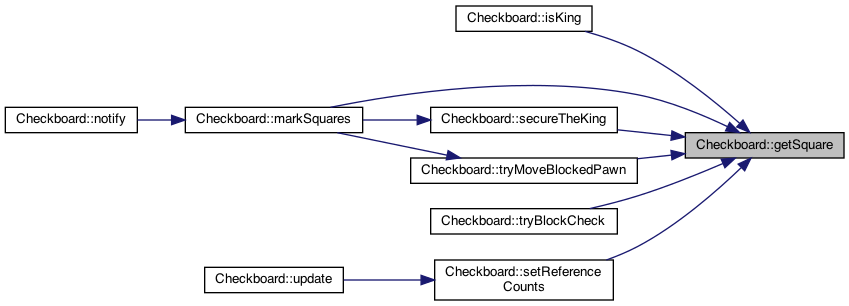
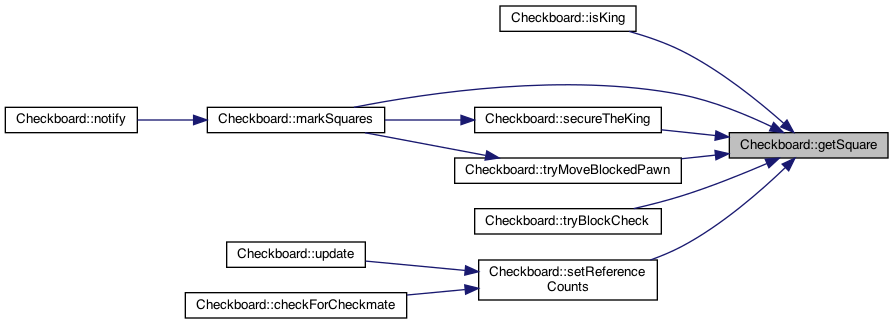
Deploying to gh-pages from @ iliaskap12/chess@b4a569ea7f6a460bec9a1721f4a7e3fdd018c890 🚀

Changed region(s): [[0.0, 0.0, 1.0, 1.0]]

diff --git a/d7/d22/classCheckboard.html b/d7/d22/classCheckboard.html
@@ -430,63 +430,76 @@ Here is the call graph for this function:</div>
 <div class="line"><span class="lineno">  432</span>  std::shared_ptr&lt;Pawn&gt; king{<span class="keyword">nullptr</span>};</div>
 <div class="line"><span class="lineno">  433</span>  <span class="keywordtype">bool</span> shouldCheckmate{<span class="keyword">true</span>};</div>
 <div class="line"><span class="lineno">  434</span> </div>
-<div class="line"><span class="lineno">  435</span>  <span class="keyword">const</span> <span class="keywordtype">int</span> blackRefCount{threat-&gt;getSquare()-&gt;getDangerReferenceCount(<a class="code hl_enumvalue" href="../../d3/d03/PawnColor_8h.html#aeee24e28f5cb186a9b7f3becafafa366a08d0012388564e95c3b4a7407cf04965">PawnColor::BLACK</a>)};</div>
-<div class="line"><span class="lineno">  436</span>  <span class="keyword">const</span> <span class="keywordtype">int</span> whiteRefCount{threat-&gt;getSquare()-&gt;getDangerReferenceCount(<a class="code hl_enumvalue" href="../../d3/d03/PawnColor_8h.html#aeee24e28f5cb186a9b7f3becafafa366ab5bf627e448384cf3a4c35121ca6008d">PawnColor::WHITE</a>)};</div>
-<div class="line"><span class="lineno">  437</span> </div>
-<div class="line"><span class="lineno">  438</span>  <span class="keywordflow">if</span> (threat-&gt;getColor() == <a class="code hl_enumvalue" href="../../d3/d03/PawnColor_8h.html#aeee24e28f5cb186a9b7f3becafafa366ab5bf627e448384cf3a4c35121ca6008d">PawnColor::WHITE</a>) {</div>
-<div class="line"><span class="lineno">  439</span>    <span class="keywordflow">if</span> (blackRefCount &gt; whiteRefCount) {</div>
-<div class="line"><span class="lineno">  440</span>      shouldCheckmate = {<span class="keyword">false</span>};</div>
-<div class="line"><span class="lineno">  441</span>    }</div>
-<div class="line"><span class="lineno">  442</span>    king = {this-&gt;<a class="code hl_variable" href="../../d7/d22/classCheckboard.html#adbe1032779d2ce829245d1cb8d13d208">blackKing</a>};</div>
-<div class="line"><span class="lineno">  443</span>  } <span class="keywordflow">else</span> {</div>
-<div class="line"><span class="lineno">  444</span>    <span class="keywordflow">if</span> (whiteRefCount &gt; blackRefCount) {</div>
-<div class="line"><span class="lineno">  445</span>      shouldCheckmate = {<span class="keyword">false</span>};</div>
-<div class="line"><span class="lineno">  446</span>    }</div>
-<div class="line"><span class="lineno">  447</span>    king = {this-&gt;<a class="code hl_variable" href="../../d7/d22/classCheckboard.html#ab603fd039fb1befd77313938f94f1945">whiteKing</a>};</div>
-<div class="line"><span class="lineno">  448</span>  }</div>
-<div class="line"><span class="lineno">  449</span> </div>
-<div class="line"><span class="lineno">  450</span>  <span class="keywordflow">if</span> (!std::static_pointer_cast&lt;King&gt;(king)-&gt;isChecked()) {</div>
-<div class="line"><span class="lineno">  451</span>    shouldCheckmate = {<span class="keyword">false</span>};</div>
-<div class="line"><span class="lineno">  452</span>  }</div>
-<div class="line"><span class="lineno">  453</span> </div>
-<div class="line"><span class="lineno">  454</span>  <span class="keywordflow">if</span> (<span class="keyword">const</span> <span class="keyword">auto</span> advanceableSquares{king-&gt;getAdvanceableSquares()}; !advanceableSquares.empty()) {</div>
-<div class="line"><span class="lineno">  455</span>    shouldCheckmate = {<span class="keyword">false</span>};</div>
-<div class="line"><span class="lineno">  456</span>  }</div>
-<div class="line"><span class="lineno">  457</span> </div>
-<div class="line"><span class="lineno">  458</span>  <span class="keywordflow">if</span> (!shouldCheckmate) {</div>
-<div class="line"><span class="lineno">  459</span>    game-&gt;playCheckSound();</div>
-<div class="line"><span class="lineno">  460</span>    <span class="keywordflow">return</span>;</div>
-<div class="line"><span class="lineno">  461</span>  }</div>
-<div class="line"><span class="lineno">  462</span> </div>
-<div class="line"><span class="lineno">  463</span>  <span class="keywordflow">for</span> (<span class="keyword">const</span> <span class="keyword">auto</span> &amp;row: *this-&gt;<a class="code hl_variable" href="../../d7/d22/classCheckboard.html#a3e9dd8c7716a612abe7b4116707d8497">squares</a>) {</div>
-<div class="line"><span class="lineno">  464</span>    <span class="keywordflow">for</span> (<span class="keyword">auto</span> &amp;square: row) {</div>
-<div class="line"><span class="lineno">  465</span>      <span class="keywordflow">if</span> (!square-&gt;hasPawn() || square-&gt;getPawn()-&gt;getColor() != king-&gt;getColor()) {</div>
-<div class="line"><span class="lineno">  466</span>        <span class="keywordflow">continue</span>;</div>
-<div class="line"><span class="lineno">  467</span>      }</div>
-<div class="line"><span class="lineno">  468</span>      <span class="keyword">auto</span> availableSquares{std::vector&lt;std::shared_ptr&lt;Square&gt;&gt;()};</div>
-<div class="line"><span class="lineno">  469</span>      <span class="keyword">auto</span> advanceableSquares{square-&gt;getPawn()-&gt;getAdvanceableSquares()};</div>
-<div class="line"><span class="lineno">  470</span>      std::ranges::for_each(advanceableSquares, [<span class="keyword">this</span>, &amp;threat, &amp;king, &amp;availableSquares](<span class="keyword">const</span> std::pair&lt;int, int&gt; &amp;pair) {</div>
-<div class="line"><span class="lineno">  471</span>        <span class="keywordflow">if</span> (*threat-&gt;getSquare() == *this-&gt;getSquare(pair)) {</div>
-<div class="line"><span class="lineno">  472</span>          availableSquares.push_back(this-&gt;getSquare(pair));</div>
-<div class="line"><span class="lineno">  473</span>        } <span class="keywordflow">else</span> {</div>
-<div class="line"><span class="lineno">  474</span>          std::ranges::for_each(this-&gt;tryBlockCheck(pair, king, threat), [&amp;availableSquares](const std::shared_ptr&lt;Square&gt; step) {</div>
-<div class="line"><span class="lineno">  475</span>            availableSquares.push_back(step);</div>
-<div class="line"><span class="lineno">  476</span>          });</div>
-<div class="line"><span class="lineno">  477</span>        }</div>
-<div class="line"><span class="lineno">  478</span>      });</div>
-<div class="line"><span class="lineno">  479</span> </div>
-<div class="line"><span class="lineno">  480</span>      <span class="keywordflow">if</span> (!availableSquares.empty()) {</div>
-<div class="line"><span class="lineno">  481</span>        game-&gt;playCheckSound();</div>
-<div class="line"><span class="lineno">  482</span>        <span class="keywordflow">return</span>;</div>
-<div class="line"><span class="lineno">  483</span>      }</div>
-<div class="line"><span class="lineno">  484</span>    }</div>
-<div class="line"><span class="lineno">  485</span>  }</div>
-<div class="line"><span class="lineno">  486</span>  this-&gt;<a class="code hl_function" href="../../d7/d22/classCheckboard.html#adf754bb50f74220b4af2fd7e4ba29311">checkmate</a>(threat-&gt;getColor());</div>
-<div class="line"><span class="lineno">  487</span>}</div>
+<div class="line"><span class="lineno">  435</span>  this-&gt;<a class="code hl_function" href="../../d7/d22/classCheckboard.html#ab2cce7d4271ca13defbd495e25215224">setReferenceCounts</a>();</div>
+<div class="line"><span class="lineno">  436</span>  <span class="keyword">const</span> <span class="keywordtype">int</span> blackRefCount{threat-&gt;getSquare()-&gt;getDangerReferenceCount(<a class="code hl_enumvalue" href="../../d3/d03/PawnColor_8h.html#aeee24e28f5cb186a9b7f3becafafa366a08d0012388564e95c3b4a7407cf04965">PawnColor::BLACK</a>)};</div>
+<div class="line"><span class="lineno">  437</span>  <span class="keyword">const</span> <span class="keywordtype">int</span> whiteRefCount{threat-&gt;getSquare()-&gt;getDangerReferenceCount(<a class="code hl_enumvalue" href="../../d3/d03/PawnColor_8h.html#aeee24e28f5cb186a9b7f3becafafa366ab5bf627e448384cf3a4c35121ca6008d">PawnColor::WHITE</a>)};</div>
+<div class="line"><span class="lineno">  438</span> </div>
+<div class="line"><span class="lineno">  439</span>  <span class="keywordflow">if</span> (threat-&gt;getColor() == <a class="code hl_enumvalue" href="../../d3/d03/PawnColor_8h.html#aeee24e28f5cb186a9b7f3becafafa366ab5bf627e448384cf3a4c35121ca6008d">PawnColor::WHITE</a>) {</div>
+<div class="line"><span class="lineno">  440</span>    <span class="keywordflow">if</span> (blackRefCount &gt; whiteRefCount) {</div>
+<div class="line"><span class="lineno">  441</span>      shouldCheckmate = {<span class="keyword">false</span>};</div>
+<div class="line"><span class="lineno">  442</span>    }</div>
+<div class="line"><span class="lineno">  443</span>    king = {this-&gt;<a class="code hl_variable" href="../../d7/d22/classCheckboard.html#adbe1032779d2ce829245d1cb8d13d208">blackKing</a>};</div>
+<div class="line"><span class="lineno">  444</span>  } <span class="keywordflow">else</span> {</div>
+<div class="line"><span class="lineno">  445</span>    <span class="keywordflow">if</span> (whiteRefCount &gt; blackRefCount) {</div>
+<div class="line"><span class="lineno">  446</span>      shouldCheckmate = {<span class="keyword">false</span>};</div>
+<div class="line"><span class="lineno">  447</span>    }</div>
+<div class="line"><span class="lineno">  448</span>    king = {this-&gt;<a class="code hl_variable" href="../../d7/d22/classCheckboard.html#ab603fd039fb1befd77313938f94f1945">whiteKing</a>};</div>
+<div class="line"><span class="lineno">  449</span>  }</div>
+<div class="line"><span class="lineno">  450</span> </div>
+<div class="line"><span class="lineno">  451</span>  <span class="keywordflow">if</span> (!std::static_pointer_cast&lt;King&gt;(king)-&gt;isChecked()) {</div>
+<div class="line"><span class="lineno">  452</span>    shouldCheckmate = {<span class="keyword">false</span>};</div>
+<div class="line"><span class="lineno">  453</span>  }</div>
+<div class="line"><span class="lineno">  454</span> </div>
+<div class="line"><span class="lineno">  455</span>  <span class="keywordflow">if</span> (<span class="keyword">const</span> <span class="keyword">auto</span> advanceableSquares{king-&gt;getAdvanceableSquares()}; !advanceableSquares.empty()) {</div>
+<div class="line"><span class="lineno">  456</span>    shouldCheckmate = {<span class="keyword">false</span>};</div>
+<div class="line"><span class="lineno">  457</span>  }</div>
+<div class="line"><span class="lineno">  458</span> </div>
+<div class="line"><span class="lineno">  459</span>  <span class="keywordflow">if</span> (!shouldCheckmate) {</div>
+<div class="line"><span class="lineno">  460</span>    game-&gt;playCheckSound();</div>
+<div class="line"><span class="lineno">  461</span>    <span class="keywordflow">return</span>;</div>
+<div class="line"><span class="lineno">  462</span>  }</div>
+<div class="line"><span class="lineno">  463</span> </div>
+<div class="line"><span class="lineno">  464</span>  <span class="keywordflow">for</span> (<span class="keyword">const</span> <span class="keyword">auto</span> &amp;row: *this-&gt;<a class="code hl_variable" href="../../d7/d22/classCheckboard.html#a3e9dd8c7716a612abe7b4116707d8497">squares</a>) {</div>
+<div class="line"><span class="lineno">  465</span>    <span class="keywordflow">for</span> (<span class="keyword">auto</span> &amp;square: row) {</div>
+<div class="line"><span class="lineno">  466</span>      <span class="keywordflow">if</span> (!square-&gt;hasPawn() || square-&gt;getPawn()-&gt;getColor() != king-&gt;getColor()) {</div>
+<div class="line"><span class="lineno">  467</span>        <span class="keywordflow">continue</span>;</div>
+<div class="line"><span class="lineno">  468</span>      }</div>
+<div class="line"><span class="lineno">  469</span>      <span class="keyword">auto</span> availableSquares{std::vector&lt;std::shared_ptr&lt;Square&gt;&gt;()};</div>
+<div class="line"><span class="lineno">  470</span>      <span class="keyword">auto</span> advanceableSquares{square-&gt;getPawn()-&gt;getAdvanceableSquares()};</div>
+<div class="line"><span class="lineno">  471</span>      std::ranges::for_each(advanceableSquares, [<span class="keyword">this</span>, &amp;threat, &amp;king, &amp;availableSquares](<span class="keyword">const</span> std::pair&lt;int, int&gt; &amp;pair) {</div>
+<div class="line"><span class="lineno">  472</span>        <span class="keywordflow">if</span> (*threat-&gt;getSquare() == *this-&gt;getSquare(pair)) {</div>
+<div class="line"><span class="lineno">  473</span>          availableSquares.push_back(this-&gt;getSquare(pair));</div>
+<div class="line"><span class="lineno">  474</span>        } <span class="keywordflow">else</span> {</div>
+<div class="line"><span class="lineno">  475</span>          std::ranges::for_each(this-&gt;tryBlockCheck(pair, king, threat), [&amp;availableSquares](const std::shared_ptr&lt;Square&gt; step) {</div>
+<div class="line"><span class="lineno">  476</span>            availableSquares.push_back(step);</div>
+<div class="line"><span class="lineno">  477</span>          });</div>
+<div class="line"><span class="lineno">  478</span>        }</div>
+<div class="line"><span class="lineno">  479</span>      });</div>
+<div class="line"><span class="lineno">  480</span> </div>
+<div class="line"><span class="lineno">  481</span>      <span class="keywordflow">if</span> (!availableSquares.empty()) {</div>
+<div class="line"><span class="lineno">  482</span>        game-&gt;playCheckSound();</div>
+<div class="line"><span class="lineno">  483</span>        <span class="keywordflow">return</span>;</div>
+<div class="line"><span class="lineno">  484</span>      }</div>
+<div class="line"><span class="lineno">  485</span>    }</div>
+<div class="line"><span class="lineno">  486</span>  }</div>
+<div class="line"><span class="lineno">  487</span>  this-&gt;<a class="code hl_function" href="../../d7/d22/classCheckboard.html#adf754bb50f74220b4af2fd7e4ba29311">checkmate</a>(threat-&gt;getColor());</div>
+<div class="line"><span class="lineno">  488</span>}</div>
 <div class="ttc" id="aclassApp_html"><div class="ttname"><a href="../../dd/d64/classApp.html">App</a></div><div class="ttdef"><b>Definition:</b> App.h:14</div></div>
+<div class="ttc" id="aclassCheckboard_html_ab2cce7d4271ca13defbd495e25215224"><div class="ttname"><a href="../../d7/d22/classCheckboard.html#ab2cce7d4271ca13defbd495e25215224">Checkboard::setReferenceCounts</a></div><div class="ttdeci">void setReferenceCounts()</div><div class="ttdef"><b>Definition:</b> Checkboard.cpp:91</div></div>
 <div class="ttc" id="aclassCheckboard_html_adf754bb50f74220b4af2fd7e4ba29311"><div class="ttname"><a href="../../d7/d22/classCheckboard.html#adf754bb50f74220b4af2fd7e4ba29311">Checkboard::checkmate</a></div><div class="ttdeci">void checkmate(PawnColor winner)</div><div class="ttdef"><b>Definition:</b> Checkboard.cpp:426</div></div>
 </div><!-- fragment -->
-<p class="reference">References <a class="el" href="../../d3/d03/PawnColor_8h.html#aeee24e28f5cb186a9b7f3becafafa366a08d0012388564e95c3b4a7407cf04965">BLACK</a>, <a class="el" href="../../d7/d22/classCheckboard.html#adbe1032779d2ce829245d1cb8d13d208">blackKing</a>, <a class="el" href="../../d7/d22/classCheckboard.html#a3e9dd8c7716a612abe7b4116707d8497">squares</a>, <a class="el" href="../../d3/d03/PawnColor_8h.html#aeee24e28f5cb186a9b7f3becafafa366ab5bf627e448384cf3a4c35121ca6008d">WHITE</a>, and <a class="el" href="../../d7/d22/classCheckboard.html#ab603fd039fb1befd77313938f94f1945">whiteKing</a>.</p>
+<p class="reference">References <a class="el" href="../../d3/d03/PawnColor_8h.html#aeee24e28f5cb186a9b7f3becafafa366a08d0012388564e95c3b4a7407cf04965">BLACK</a>, <a class="el" href="../../d7/d22/classCheckboard.html#adbe1032779d2ce829245d1cb8d13d208">blackKing</a>, <a class="el" href="../../d7/d22/classCheckboard.html#ab2cce7d4271ca13defbd495e25215224">setReferenceCounts()</a>, <a class="el" href="../../d7/d22/classCheckboard.html#a3e9dd8c7716a612abe7b4116707d8497">squares</a>, <a class="el" href="../../d3/d03/PawnColor_8h.html#aeee24e28f5cb186a9b7f3becafafa366ab5bf627e448384cf3a4c35121ca6008d">WHITE</a>, and <a class="el" href="../../d7/d22/classCheckboard.html#ab603fd039fb1befd77313938f94f1945">whiteKing</a>.</p>
+<div class="dynheader">
+Here is the call graph for this function:</div>
+<div class="dyncontent">
+<div class="center"><img src="../../d7/d22/classCheckboard_aa0c092a25118247fe8bdd1842377e106_cgraph.png" border="0" usemap="#ad7/d22/classCheckboard_aa0c092a25118247fe8bdd1842377e106_cgraph" alt=""/></div>
+<map name="ad7/d22/classCheckboard_aa0c092a25118247fe8bdd1842377e106_cgraph" id="ad7/d22/classCheckboard_aa0c092a25118247fe8bdd1842377e106_cgraph">
+<area shape="rect" title=" " alt="" coords="5,35,227,61"/>
+<area shape="rect" href="../../d7/d22/classCheckboard.html#ab2cce7d4271ca13defbd495e25215224" title=" " alt="" coords="275,27,453,69"/>
+<area shape="rect" href="../../d7/d22/classCheckboard.html#a8bf65dfb381014bdb3583a04191be9fa" title=" " alt="" coords="517,5,675,32"/>
+<area shape="rect" href="../../d7/d22/classCheckboard.html#ac6518f96d2609df334c7a39dc337c79c" title=" " alt="" coords="501,57,691,98"/>
+</map>
+</div>
 
 </div>
 </div>
@@ -583,13 +596,13 @@ Here is the call graph for this function:</div>
         </tr>
       </table>
 </div><div class="memdoc">
-<div class="fragment"><div class="line"><span class="lineno">  489</span>                                                             {</div>
-<div class="line"><span class="lineno">  490</span>  <span class="keywordflow">if</span> (<a class="code hl_enumvalue" href="../../d3/d03/PawnColor_8h.html#aeee24e28f5cb186a9b7f3becafafa366ab5bf627e448384cf3a4c35121ca6008d">PawnColor::WHITE</a> == color) {</div>
-<div class="line"><span class="lineno">  491</span>    <span class="keywordflow">return</span> std::static_pointer_cast&lt;King&gt;(this-&gt;<a class="code hl_variable" href="../../d7/d22/classCheckboard.html#ab603fd039fb1befd77313938f94f1945">whiteKing</a>);</div>
-<div class="line"><span class="lineno">  492</span>  } <span class="keywordflow">else</span> {</div>
-<div class="line"><span class="lineno">  493</span>    <span class="keywordflow">return</span> std::static_pointer_cast&lt;King&gt;(this-&gt;<a class="code hl_variable" href="../../d7/d22/classCheckboard.html#adbe1032779d2ce829245d1cb8d13d208">blackKing</a>);</div>
-<div class="line"><span class="lineno">  494</span>  }</div>
-<div class="line"><span class="lineno">  495</span>}</div>
+<div class="fragment"><div class="line"><span class="lineno">  490</span>                                                             {</div>
+<div class="line"><span class="lineno">  491</span>  <span class="keywordflow">if</span> (<a class="code hl_enumvalue" href="../../d3/d03/PawnColor_8h.html#aeee24e28f5cb186a9b7f3becafafa366ab5bf627e448384cf3a4c35121ca6008d">PawnColor::WHITE</a> == color) {</div>
+<div class="line"><span class="lineno">  492</span>    <span class="keywordflow">return</span> std::static_pointer_cast&lt;King&gt;(this-&gt;<a class="code hl_variable" href="../../d7/d22/classCheckboard.html#ab603fd039fb1befd77313938f94f1945">whiteKing</a>);</div>
+<div class="line"><span class="lineno">  493</span>  } <span class="keywordflow">else</span> {</div>
+<div class="line"><span class="lineno">  494</span>    <span class="keywordflow">return</span> std::static_pointer_cast&lt;King&gt;(this-&gt;<a class="code hl_variable" href="../../d7/d22/classCheckboard.html#adbe1032779d2ce829245d1cb8d13d208">blackKing</a>);</div>
+<div class="line"><span class="lineno">  495</span>  }</div>
+<div class="line"><span class="lineno">  496</span>}</div>
 </div><!-- fragment -->
 <p class="reference">References <a class="el" href="../../d7/d22/classCheckboard.html#adbe1032779d2ce829245d1cb8d13d208">blackKing</a>, <a class="el" href="../../d3/d03/PawnColor_8h.html#aeee24e28f5cb186a9b7f3becafafa366ab5bf627e448384cf3a4c35121ca6008d">WHITE</a>, and <a class="el" href="../../d7/d22/classCheckboard.html#ab603fd039fb1befd77313938f94f1945">whiteKing</a>.</p>
 
@@ -651,15 +664,16 @@ Here is the caller graph for this function:</div>
 <div class="dyncontent">
 <div class="center"><img src="../../d7/d22/classCheckboard_a8bf65dfb381014bdb3583a04191be9fa_icgraph.png" border="0" usemap="#ad7/d22/classCheckboard_a8bf65dfb381014bdb3583a04191be9fa_icgraph" alt=""/></div>
 <map name="ad7/d22/classCheckboard_a8bf65dfb381014bdb3583a04191be9fa_icgraph" id="ad7/d22/classCheckboard_a8bf65dfb381014bdb3583a04191be9fa_icgraph">
-<area shape="rect" title=" " alt="" coords="685,132,844,159"/>
-<area shape="rect" href="../../d7/d22/classCheckboard.html#a3a1c09c2b69234c8e8e12dffd2344935" title=" " alt="" coords="456,5,592,32"/>
-<area shape="rect" href="../../d7/d22/classCheckboard.html#a470502f9a1893dbf2152a07a41e6e38c" title=" " alt="" coords="185,107,363,133"/>
-<area shape="rect" href="../../d7/d22/classCheckboard.html#a21a011e2390772722da4815b73e34287" title=" " alt="" coords="431,107,617,133"/>
-<area shape="rect" href="../../d7/d22/classCheckboard.html#ab2cce7d4271ca13defbd495e25215224" title=" " alt="" coords="435,259,613,301"/>
-<area shape="rect" href="../../d7/d22/classCheckboard.html#a935312efe3137e1eb72ceb4d9030d744" title=" " alt="" coords="431,208,617,235"/>
-<area shape="rect" href="../../d7/d22/classCheckboard.html#a826c18b2cf0cf48c3ec85cc04c7b22cd" title=" " alt="" coords="411,157,637,184"/>
+<area shape="rect" title=" " alt="" coords="729,132,888,159"/>
+<area shape="rect" href="../../d7/d22/classCheckboard.html#a3a1c09c2b69234c8e8e12dffd2344935" title=" " alt="" coords="500,5,636,32"/>
+<area shape="rect" href="../../d7/d22/classCheckboard.html#a470502f9a1893dbf2152a07a41e6e38c" title=" " alt="" coords="207,107,385,133"/>
+<area shape="rect" href="../../d7/d22/classCheckboard.html#a21a011e2390772722da4815b73e34287" title=" " alt="" coords="475,107,661,133"/>
+<area shape="rect" href="../../d7/d22/classCheckboard.html#ab2cce7d4271ca13defbd495e25215224" title=" " alt="" coords="479,259,657,301"/>
+<area shape="rect" href="../../d7/d22/classCheckboard.html#a935312efe3137e1eb72ceb4d9030d744" title=" " alt="" coords="475,208,661,235"/>
+<area shape="rect" href="../../d7/d22/classCheckboard.html#a826c18b2cf0cf48c3ec85cc04c7b22cd" title=" " alt="" coords="455,157,681,184"/>
 <area shape="rect" href="../../d7/d22/classCheckboard.html#ab188b54b544caa7ae0d36278b11d572c" title=" " alt="" coords="5,107,137,133"/>
-<area shape="rect" href="../../d7/d22/classCheckboard.html#ae3ee1a3a146ad9dabc0199212e12fe6e" title=" " alt="" coords="205,267,343,293"/>
+<area shape="rect" href="../../d7/d22/classCheckboard.html#aa0c092a25118247fe8bdd1842377e106" title=" " alt="" coords="185,292,407,319"/>
+<area shape="rect" href="../../d7/d22/classCheckboard.html#ae3ee1a3a146ad9dabc0199212e12fe6e" title=" " alt="" coords="227,241,365,268"/>
 </map>
 </div>
 
@@ -1127,9 +1141,10 @@ Here is the caller graph for this function:</div>
 <div class="dyncontent">
 <div class="center"><img src="../../d7/d22/classCheckboard_ac6518f96d2609df334c7a39dc337c79c_icgraph.png" border="0" usemap="#ad7/d22/classCheckboard_ac6518f96d2609df334c7a39dc337c79c_icgraph" alt=""/></div>
 <map name="ad7/d22/classCheckboard_ac6518f96d2609df334c7a39dc337c79c_icgraph" id="ad7/d22/classCheckboard_ac6518f96d2609df334c7a39dc337c79c_icgraph">
-<area shape="rect" title=" " alt="" coords="419,5,608,47"/>
-<area shape="rect" href="../../d7/d22/classCheckboard.html#ab2cce7d4271ca13defbd495e25215224" title=" " alt="" coords="192,5,371,47"/>
-<area shape="rect" href="../../d7/d22/classCheckboard.html#ae3ee1a3a146ad9dabc0199212e12fe6e" title=" " alt="" coords="5,13,144,39"/>
+<area shape="rect" title=" " alt="" coords="501,23,691,65"/>
+<area shape="rect" href="../../d7/d22/classCheckboard.html#ab2cce7d4271ca13defbd495e25215224" title=" " alt="" coords="275,23,453,65"/>
+<area shape="rect" href="../../d7/d22/classCheckboard.html#aa0c092a25118247fe8bdd1842377e106" title=" " alt="" coords="5,5,227,32"/>
+<area shape="rect" href="../../d7/d22/classCheckboard.html#ae3ee1a3a146ad9dabc0199212e12fe6e" title=" " alt="" coords="47,56,185,83"/>
 </map>
 </div>
 
@@ -1323,7 +1338,7 @@ Here is the caller graph for this function:</div>
 </div><!-- fragment -->
 <p class="reference">References <a class="el" href="../../d7/d22/classCheckboard.html#a8bf65dfb381014bdb3583a04191be9fa">getSquare()</a>, <a class="el" href="../../d7/d22/classCheckboard.html#ac6518f96d2609df334c7a39dc337c79c">resetReferenceCounts()</a>, <a class="el" href="../../d7/d22/classCheckboard.html#a3e9dd8c7716a612abe7b4116707d8497">squares</a>, and <a class="el" href="../../d7/d22/classCheckboard.html#a60a835cfe4c27c2a905efdaec6538c75">whiteKingThreat</a>.</p>
 
-<p class="reference">Referenced by <a class="el" href="../../d7/d22/classCheckboard.html#ae3ee1a3a146ad9dabc0199212e12fe6e">update()</a>.</p>
+<p class="reference">Referenced by <a class="el" href="../../d7/d22/classCheckboard.html#aa0c092a25118247fe8bdd1842377e106">checkForCheckmate()</a>, and <a class="el" href="../../d7/d22/classCheckboard.html#ae3ee1a3a146ad9dabc0199212e12fe6e">update()</a>.</p>
 <div class="dynheader">
 Here is the call graph for this function:</div>
 <div class="dyncontent">
@@ -1339,8 +1354,9 @@ Here is the caller graph for this function:</div>
 <div class="dyncontent">
 <div class="center"><img src="../../d7/d22/classCheckboard_ab2cce7d4271ca13defbd495e25215224_icgraph.png" border="0" usemap="#ad7/d22/classCheckboard_ab2cce7d4271ca13defbd495e25215224_icgraph" alt=""/></div>
 <map name="ad7/d22/classCheckboard_ab2cce7d4271ca13defbd495e25215224_icgraph" id="ad7/d22/classCheckboard_ab2cce7d4271ca13defbd495e25215224_icgraph">
-<area shape="rect" title=" " alt="" coords="192,5,371,47"/>
-<area shape="rect" href="../../d7/d22/classCheckboard.html#ae3ee1a3a146ad9dabc0199212e12fe6e" title=" " alt="" coords="5,13,144,39"/>
+<area shape="rect" title=" " alt="" coords="275,23,453,65"/>
+<area shape="rect" href="../../d7/d22/classCheckboard.html#aa0c092a25118247fe8bdd1842377e106" title=" " alt="" coords="5,5,227,32"/>
+<area shape="rect" href="../../d7/d22/classCheckboard.html#ae3ee1a3a146ad9dabc0199212e12fe6e" title=" " alt="" coords="47,56,185,83"/>
 </map>
 </div>
 
@@ -1576,7 +1592,6 @@ Here is the caller graph for this function:</div>
 <div class="line"><span class="lineno">  154</span>    this-&gt;<a class="code hl_variable" href="../../d7/d22/classCheckboard.html#a3c4293c0e08d4b60bd31bd9ace28690d">selectedPawn</a> = {<span class="keyword">nullptr</span>};</div>
 <div class="line"><span class="lineno">  155</span>  }</div>
 <div class="line"><span class="lineno">  156</span>}</div>
-<div class="ttc" id="aclassCheckboard_html_ab2cce7d4271ca13defbd495e25215224"><div class="ttname"><a href="../../d7/d22/classCheckboard.html#ab2cce7d4271ca13defbd495e25215224">Checkboard::setReferenceCounts</a></div><div class="ttdeci">void setReferenceCounts()</div><div class="ttdef"><b>Definition:</b> Checkboard.cpp:91</div></div>
 <div class="ttc" id="aclassCheckboard_html_ae6492b0cb2ee2dc21051c32803033ee7"><div class="ttname"><a href="../../d7/d22/classCheckboard.html#ae6492b0cb2ee2dc21051c32803033ee7">Checkboard::setBlockedPawns</a></div><div class="ttdeci">void setBlockedPawns() const</div><div class="ttdef"><b>Definition:</b> Checkboard.cpp:118</div></div>
 </div><!-- fragment -->
 <p class="reference">References <a class="el" href="../../d7/d22/classCheckboard.html#a2b1732cb70b375f67c42f5a2d7792890">markedPawn</a>, <a class="el" href="../../d7/d22/classCheckboard.html#a76747f20b4d0aa7b17424ee7b45d7d18">markedSquares</a>, <a class="el" href="../../d7/d22/classCheckboard.html#a4962b122e4fbb403397f4ceb0feed855">movingSquare_</a>, <a class="el" href="../../d7/d22/classCheckboard.html#a3c4293c0e08d4b60bd31bd9ace28690d">selectedPawn</a>, <a class="el" href="../../d7/d22/classCheckboard.html#ae6492b0cb2ee2dc21051c32803033ee7">setBlockedPawns()</a>, <a class="el" href="../../d7/d22/classCheckboard.html#ab2cce7d4271ca13defbd495e25215224">setReferenceCounts()</a>, and <a class="el" href="../../d7/d22/classCheckboard.html#a3e9dd8c7716a612abe7b4116707d8497">squares</a>.</p>

diff --git a/da/d31/Checkboard_8h_source.html b/da/d31/Checkboard_8h_source.html
@@ -182,7 +182,7 @@ $(function() {
 <div class="ttc" id="aclassCheckboard_html_ab2cce7d4271ca13defbd495e25215224"><div class="ttname"><a href="../../d7/d22/classCheckboard.html#ab2cce7d4271ca13defbd495e25215224">Checkboard::setReferenceCounts</a></div><div class="ttdeci">void setReferenceCounts()</div><div class="ttdef"><b>Definition:</b> Checkboard.cpp:91</div></div>
 <div class="ttc" id="aclassCheckboard_html_ab603fd039fb1befd77313938f94f1945"><div class="ttname"><a href="../../d7/d22/classCheckboard.html#ab603fd039fb1befd77313938f94f1945">Checkboard::whiteKing</a></div><div class="ttdeci">std::shared_ptr&lt; Pawn &gt; whiteKing</div><div class="ttdef"><b>Definition:</b> Checkboard.h:30</div></div>
 <div class="ttc" id="aclassCheckboard_html_ac6518f96d2609df334c7a39dc337c79c"><div class="ttname"><a href="../../d7/d22/classCheckboard.html#ac6518f96d2609df334c7a39dc337c79c">Checkboard::resetReferenceCounts</a></div><div class="ttdeci">void resetReferenceCounts()</div><div class="ttdef"><b>Definition:</b> Checkboard.cpp:81</div></div>
-<div class="ttc" id="aclassCheckboard_html_aca6e06b4db147e9c77d75674cef9d228"><div class="ttname"><a href="../../d7/d22/classCheckboard.html#aca6e06b4db147e9c77d75674cef9d228">Checkboard::getKing</a></div><div class="ttdeci">std::shared_ptr&lt; King &gt; getKing(PawnColor color) const</div><div class="ttdef"><b>Definition:</b> Checkboard.cpp:489</div></div>
+<div class="ttc" id="aclassCheckboard_html_aca6e06b4db147e9c77d75674cef9d228"><div class="ttname"><a href="../../d7/d22/classCheckboard.html#aca6e06b4db147e9c77d75674cef9d228">Checkboard::getKing</a></div><div class="ttdeci">std::shared_ptr&lt; King &gt; getKing(PawnColor color) const</div><div class="ttdef"><b>Definition:</b> Checkboard.cpp:490</div></div>
 <div class="ttc" id="aclassCheckboard_html_ad2ccfe000bb8ccc8db8f680106526057"><div class="ttname"><a href="../../d7/d22/classCheckboard.html#ad2ccfe000bb8ccc8db8f680106526057">Checkboard::amIinDanger</a></div><div class="ttdeci">bool amIinDanger(const Rectangle *rect) const</div><div class="ttdef"><b>Definition:</b> Checkboard.cpp:323</div></div>
 <div class="ttc" id="aclassCheckboard_html_adbe1032779d2ce829245d1cb8d13d208"><div class="ttname"><a href="../../d7/d22/classCheckboard.html#adbe1032779d2ce829245d1cb8d13d208">Checkboard::blackKing</a></div><div class="ttdeci">std::shared_ptr&lt; Pawn &gt; blackKing</div><div class="ttdef"><b>Definition:</b> Checkboard.h:31</div></div>
 <div class="ttc" id="aclassCheckboard_html_adf754bb50f74220b4af2fd7e4ba29311"><div class="ttname"><a href="../../d7/d22/classCheckboard.html#adf754bb50f74220b4af2fd7e4ba29311">Checkboard::checkmate</a></div><div class="ttdeci">void checkmate(PawnColor winner)</div><div class="ttdef"><b>Definition:</b> Checkboard.cpp:426</div></div>

diff --git a/api/file_src_game_game_PawnColor.h.html b/api/file_src_game_game_PawnColor.h.html
@@ -115,9 +115,9 @@
 <section id="functions">
 <h2>Functions<a class="headerlink" href="#functions" title="Permalink to this headline"></a></h2>
 <ul class="simple">
+<li><p><a class="reference internal" href="function__pawn_color_8h_1a01afae9f3b15fcc149f38ff768b7b1f5.html#exhale-function-pawn-color-8h-1a01afae9f3b15fcc149f38ff768b7b1f5"><span class="std std-ref">Function operator+(const PawnColor&amp;, const PawnColor&amp;)</span></a></p></li>
 <li><p><a class="reference internal" href="function__pawn_color_8h_1a1535c4ed0687663633c368c8bf026d2c.html#exhale-function-pawn-color-8h-1a1535c4ed0687663633c368c8bf026d2c"><span class="std std-ref">Template Function operator+(const T&amp;, const PawnColor&amp;)</span></a></p></li>
 <li><p><a class="reference internal" href="function__pawn_color_8h_1ac696b8bf8176fd87edbb08d0c68d11d4.html#exhale-function-pawn-color-8h-1ac696b8bf8176fd87edbb08d0c68d11d4"><span class="std std-ref">Template Function operator+(const PawnColor&amp;, const T&amp;)</span></a></p></li>
-<li><p><a class="reference internal" href="function__pawn_color_8h_1a01afae9f3b15fcc149f38ff768b7b1f5.html#exhale-function-pawn-color-8h-1a01afae9f3b15fcc149f38ff768b7b1f5"><span class="std std-ref">Function operator+(const PawnColor&amp;, const PawnColor&amp;)</span></a></p></li>
 <li><p><a class="reference internal" href="function__pawn_color_8h_1a7160b90052fec47bed434f8739145de2.html#exhale-function-pawn-color-8h-1a7160b90052fec47bed434f8739145de2"><span class="std std-ref">Function operator&lt;&lt;(std::ostream&amp;, const PawnColor&amp;)</span></a></p></li>
 <li><p><a class="reference internal" href="function__pawn_color_8h_1a60ef28efc0e8b9bf41b21c035cf81380.html#exhale-function-pawn-color-8h-1a60ef28efc0e8b9bf41b21c035cf81380"><span class="std std-ref">Function pawnColorToString(const PawnColor&amp;)</span></a></p></li>
 </ul>

diff --git a/api/program_listing_file_src_game_src_Checkboard.cpp.html b/api/program_listing_file_src_game_src_Checkboard.cpp.html
@@ -504,6 +504,7 @@
 <span class="w">  </span><span class="n">std</span><span class="o">::</span><span class="n">shared_ptr</span><span class="o">&lt;</span><span class="n">Pawn</span><span class="o">&gt;</span><span class="w"> </span><span class="n">king</span><span class="p">{</span><span class="k">nullptr</span><span class="p">};</span><span class="w"></span>
 <span class="w">  </span><span class="kt">bool</span><span class="w"> </span><span class="n">shouldCheckmate</span><span class="p">{</span><span class="nb">true</span><span class="p">};</span><span class="w"></span>
 
+<span class="w">  </span><span class="k">this</span><span class="o">-&gt;</span><span class="n">setReferenceCounts</span><span class="p">();</span><span class="w"></span>
 <span class="w">  </span><span class="k">const</span><span class="w"> </span><span class="kt">int</span><span class="w"> </span><span class="n">blackRefCount</span><span class="p">{</span><span class="n">threat</span><span class="o">-&gt;</span><span class="n">getSquare</span><span class="p">()</span><span class="o">-&gt;</span><span class="n">getDangerReferenceCount</span><span class="p">(</span><span class="n">PawnColor</span><span class="o">::</span><span class="n">BLACK</span><span class="p">)};</span><span class="w"></span>
 <span class="w">  </span><span class="k">const</span><span class="w"> </span><span class="kt">int</span><span class="w"> </span><span class="n">whiteRefCount</span><span class="p">{</span><span class="n">threat</span><span class="o">-&gt;</span><span class="n">getSquare</span><span class="p">()</span><span class="o">-&gt;</span><span class="n">getDangerReferenceCount</span><span class="p">(</span><span class="n">PawnColor</span><span class="o">::</span><span class="n">WHITE</span><span class="p">)};</span><span class="w"></span>
 
